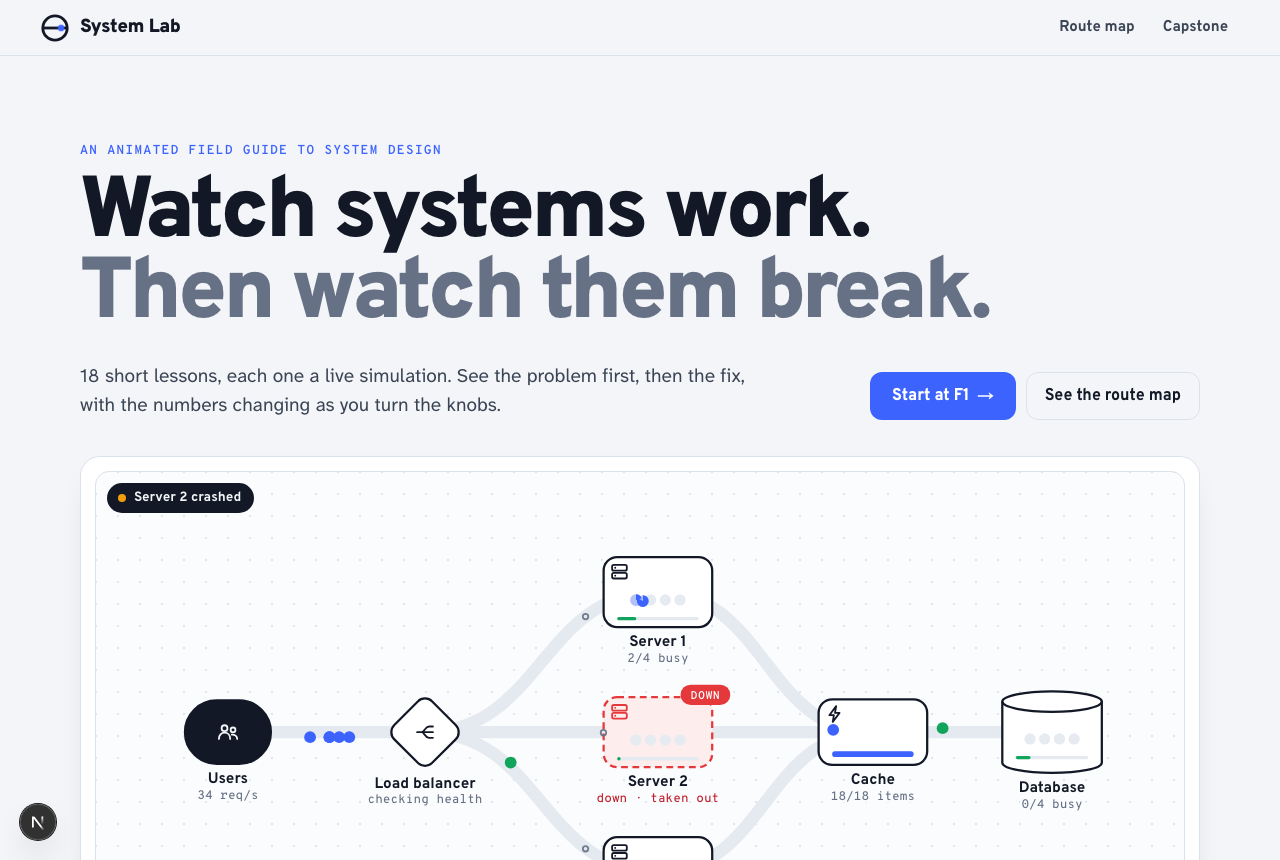
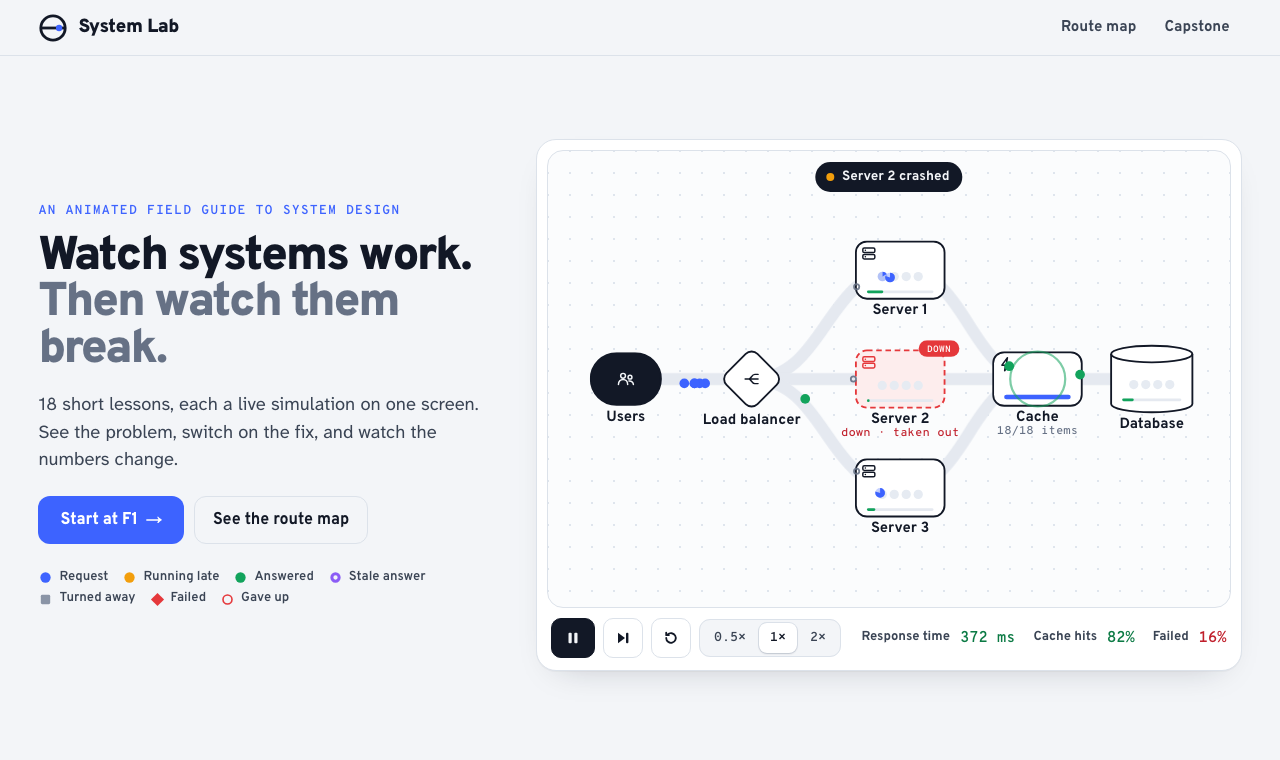
docs: describe the one-screen player and refresh screenshots

diff --git a/README.md b/README.md
@@ -19,14 +19,20 @@ There are 18 lessons on five "lines", ending in a capstone:
 | **R · Resilience** | Rate limiting · Circuit breakers · Autoscaling |
 | **★ Capstone** | Keep a URL shortener alive through four traffic stages |
 
-Every lesson has the same shape:
+Every lesson fits on one screen, so you never scroll to find the simulation and then scroll back to read about it:
 
-- A one-line **why** it exists.
-- **The problem**: the scene without the idea.
-- **The fix**: the same scene and the same random seed, with the idea added. Its numbers sit next to the problem's.
-- Three short takeaways: when to use it, the catch, and where you'll see it.
+- **Stage.** The live scene fills most of the screen.
+- **Side panel.** It holds a one-line **why**, then the steps as tabs:
+  - **The problem**: the scene without the idea.
+  - **The fix**: the same scene and the same random seed, with the idea added.
+  - **Recap**: when to use it, the catch, and where you'll see it.
+- **Comparison table.** Under the steps, a live **Without | With | Change** table measures both worlds side by side. They run in lockstep, and a fault button hits both.
+- **Dock.** Playback controls and the single **Next** button.
+- **Phones.** The stage stays fixed on top, the panel is the only part that scrolls, and the dock sits at the bottom.
 
-![The fix scene of the caching lesson, with live metrics compared to the no-cache run](docs/screenshots/lesson-caching.png)
+![The caching lesson on one screen: scene, steps, knob and Without/With/Change table](docs/screenshots/lesson-caching.png)
+
+<img src="docs/screenshots/mobile-rate-limiting.png" alt="The rate-limiting lesson on a phone" width="300">
 
 In the capstone you grow the architecture yourself. You add servers, a cache, replicas and a rate limiter, and each stage unlocks once you hold the latency and error target.
 
@@ -76,16 +82,18 @@ npm run tune           # print each figure's metrics over a simulated run
 src/
   app/                    Next.js App Router: home, /learn/[slug] (static), 404
   components/
-    stage.tsx             SVG nodes underneath, a canvas of moving requests on top
-    glyph.tsx             node shapes and icons
-    live.tsx              useLiveSim: animation loop, playback, metrics tiles
-    figure.tsx            one lesson scene: stage, controls, faults, knobs, metrics
-    capstone.tsx          the stage-by-stage capstone
+    player.tsx            the one-screen lesson player (bar · stage | panel · dock)
+    capstone.tsx          the stage-by-stage capstone, in the same shell
+    stage.tsx             SVG nodes underneath, a canvas of moving requests on top;
+                          picks a wide, compact (phone) or tall layout to fit its box
+    live.tsx              useLiveSims (lockstep worlds + animation loop), Compare, Transport
+    glyph.tsx, legend.tsx node shapes, icons, the dot key
+    hero.tsx, brand.tsx   home page scene, header and footer
     route-map.tsx         the transit map (SVG on desktop, a strip list on phones)
   lib/
     sim/engine.ts         deterministic, tick-based flow simulator
     sim/metrics.ts        sliding-window p95, error, hit, utilisation, and more
-    sim/layout.ts         layout coordinates → wide or tall (phone) viewBox
+    sim/layout.ts         layout coordinates → wide, compact or tall viewBox
     lessons/*.ts          lessons as pure build(values) → SceneSpec functions
 tests/                    node:test engine + lesson tests; Playwright browser tests
 ```
@@ -102,7 +110,10 @@ tests/                    node:test engine + lesson tests; Playwright browser te
   - Clients time out and retry, with backoff, jitter and an optional retry budget.
   - A timed-out request keeps running as a ghost. That wasted work is what makes retry storms possible.
 - **Live knobs.** Changing a knob rebuilds the scene spec, and `sim.reconfigure(spec)` patches the running simulation in place.
-- **Rendering.** Only on-screen figures animate. React re-renders the SVG about 11 times a second; the canvas draws every frame.
+- **Rendering.**
+  - Only on-screen scenes animate. React re-renders the SVG about 11 times a second; the canvas draws every frame.
+  - When you switch steps, components the two worlds share stay put and new ones scale in with an accent ring.
+  - Numbers are smoothed so they glide instead of flickering.
 - **Reduced motion.** Nothing autoplays. Figures open on a settled still frame, and Play and Step are always available.
 
 See [docs/plan.md](docs/plan.md) for the audit, the design decisions and the scope.

diff --git a/docs/plan.md b/docs/plan.md
@@ -122,3 +122,56 @@ Fault buttons ("Crash server 2", "Cut the network") and looping scripted events 
 - `npm run typecheck && npm test && npm run build` and `npm run test:browser` are green.
 - Screenshots at 1440 and 390 px have been checked by eye.
 - The work is pushed to `main`, and Vercel serves the new version at sys-design-learning.vercel.app.
+
+---
+
+## v2: one-screen lesson player
+
+**Feedback.** The user had to scroll to see the simulation, then scroll again to read the text, and the phone was worse. Stacking two figures plus takeaways vertically was the cause.
+
+**References.**
+- PhET: a fixed logical stage scaled to fit, with controls inside it.
+- Algorithm Visualizer: a full-height app with panes, where the page never scrolls.
+- Secret Lives of Data and Nicky Case's *Trust*: one stage, short text, and objects that carry over and tween between steps.
+- Duolingo and Brilliant: one forward action, plus visible progress.
+- The Pudding: keep every step reachable.
+- web.dev: use `svh` units, not `100vh`.
+- NN/g: no long reading in bottom sheets.
+
+**Decisions.**
+
+- **One app shell per lesson, and the document never scrolls.**
+
+  ```
+  desktop / tablet landscape                      phone (portrait)
+  ┌────────────────────────────────────────────┐  ┌──────────────────┐
+  │ ◉ F ·F1 F2 F3 F4·  F3 Load balancing  ‹ ›  │  │ ◉  F3 Load bal… ›│ bar
+  ├──────────────────────────────┬─────────────┤  ├──────────────────┤
+  │                              │ why         │  │ stage (compact   │
+  │   stage (fills, contain)     │ [1][2][✓]   │  │ layout, 46svh)   │
+  │                              │ caption     │  ├──────────────────┤
+  │                              │ knobs·fault │  │ [1][2][✓] tabs   │ panel
+  │                              │ Without|With│  │ caption, knobs,  │ (only
+  │                              │   |Δ table  │  │ compare table    │ scroller)
+  ├──────────────────────────────┴─────────────┤  ├──────────────────┤
+  │ ▶ ⏭ ↺ 0.5 1 2 · slow-mo · Key   ‹ Back Next›│  │ ▶ ⏭ ↺ 1×  Next › │ dock
+  └────────────────────────────────────────────┘  └──────────────────┘
+  ```
+
+- **Steps.** Each step is a tab: Problem, Fix, Takeaways. Switch with the tabs, the ← and → keys, or the single primary Next button in the dock.
+  - Both worlds run in lockstep on the same seed, and a fault button hits both.
+  - Switching shows the other world on the same stage. Nodes they share keep their place, new components scale in with a one-time accent ring, and links fade in.
+- **Numbers.** A "Without | With | Δ" table, coloured by good or bad, with the inactive column muted.
+- **Scene layouts.**
+  - **wide:** the desktop layout.
+  - **compact:** phones and short boxes. Tighter spacing, slightly smaller glyphs, and secondary labels only when they carry news.
+  - **tall:** narrow, tall boxes.
+
+  The stage measures its box and picks whichever layout reads best.
+- **Motion.**
+  - Ease-out for entering, and linear travel for requests.
+  - Panel content enters with opacity, an 8px shift and a light blur.
+  - Numbers are smoothed so they don't flicker.
+  - No decorative loops.
+  - Everything is off under reduced motion.
+- **Home.** A two-column hero: copy and CTA beside the live scene, with the dot key as a strip. The route map follows.

diff --git a/CLAUDE.md b/CLAUDE.md
@@ -17,16 +17,25 @@ An animated system-design course. It's built with Next.js 16 App Router, React 1
   - Keep arrivals independent of downstream behaviour, so a problem scene and its fix see the same traffic.
 - `src/lib/lessons/*.ts`: lessons, as pure `build(values) => SceneSpec`.
   - Each fix figure has a `compare` build. `tests/lessons.test.ts` asserts the fix beats it on the first metric.
+- `src/components/player.tsx`: the one-screen lesson player.
+  - `Shell` lays out bar · stage | panel · dock. The document never scrolls; only the panel does.
+  - Every step's world runs in lockstep (`useLiveSims`) for the Without/With/Change table.
 - `src/components/stage.tsx`: the renderer. SVG nodes go in the React layer; dots, effects and queue formations go on the canvas.
-  - Layout coordinates are `[along, across]`, each from 0 to 100. Phones get the same graph transposed, one row per distinct "along" value.
+  - Layout coordinates are `[along, across]`, each from 0 to 100.
+  - The stage measures its box and picks a layout: `wide` (desktop), `compact` (tighter, for phones) or `tall` (transposed).
+  - A lesson's frame is sized for all of its steps, so switching steps never rescales the scene.
 - `src/app/globals.css`: all styles. Design tokens (colours, line colours, dot colours) sit at the top, with a dark-mode block.
 
 ## Conventions
 
 - **Lesson shape.** One-line `why`, then a problem figure, then a fix figure (or a pair of trade-off figures).
+  - Each figure has a `short` tab name of two words at most.
+  - Faults with the same index apply to both worlds.
   - At most 2 knobs, 4 metrics, and a caption under 60 words.
   - Plain words; no jargon before the scene shows it.
 - **Visual language.** Never reuse a dot colour for a new meaning. The mapping is fixed: cobalt for a request, amber for late, green for answered, violet for stale, slate for turned away, red for failed. Shape carries the state as well as colour.
 - **Fault buttons.** Each action reads its on/off state from the simulation (`isOn`), so scripted faults and buttons stay in sync.
 - **Reduced motion.** Must keep working: no autoplay, a settled still frame, and CSS animations disabled.
+- **Motion.** Use ease-out for things entering, linear travel for requests, and no decorative loops. Animate only transform and opacity, except one-time SVG strokes.
+- **Screen fit.** Lesson pages must fit the viewport at 1280×720 and on a 390×844 phone. `npm run test:browser` asserts that the document doesn't scroll.
 - **Out of scope.** No cloud, accounts or backend. Progress is a localStorage list of visited lessons and nothing more.
